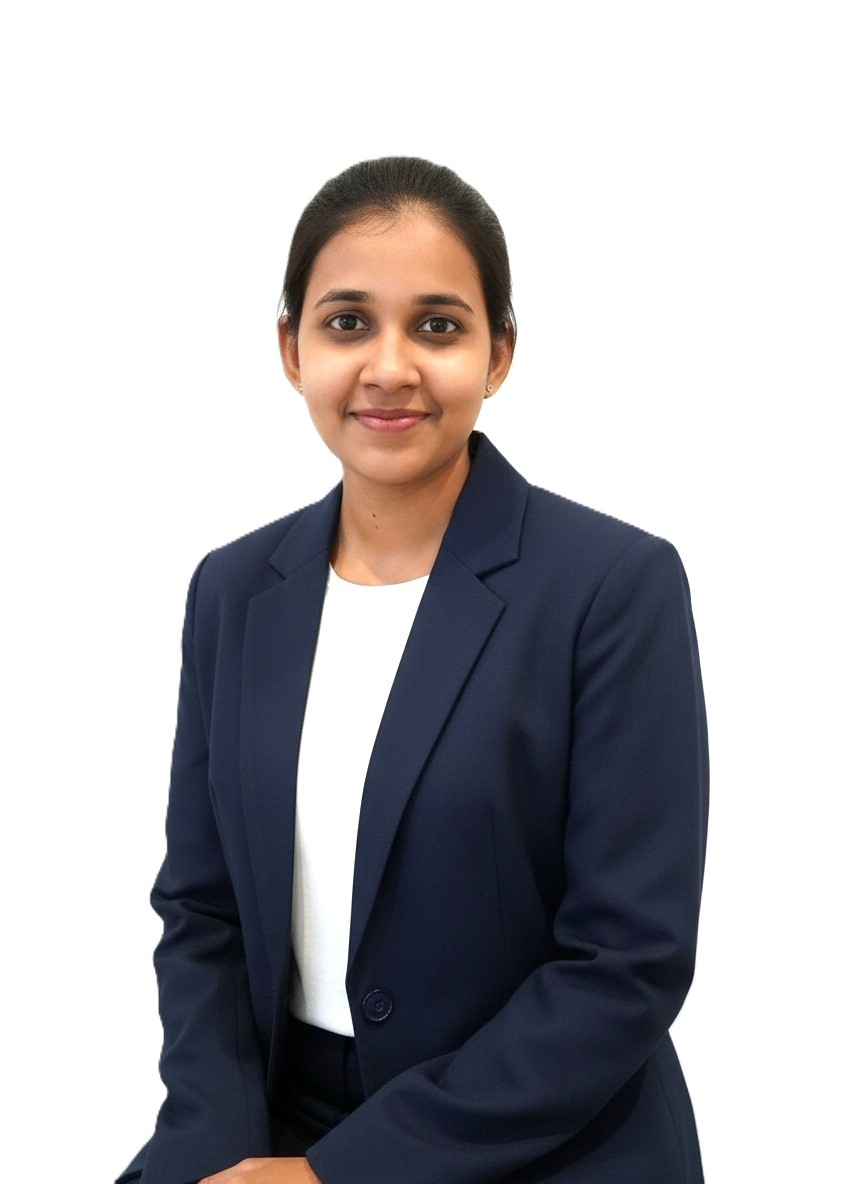
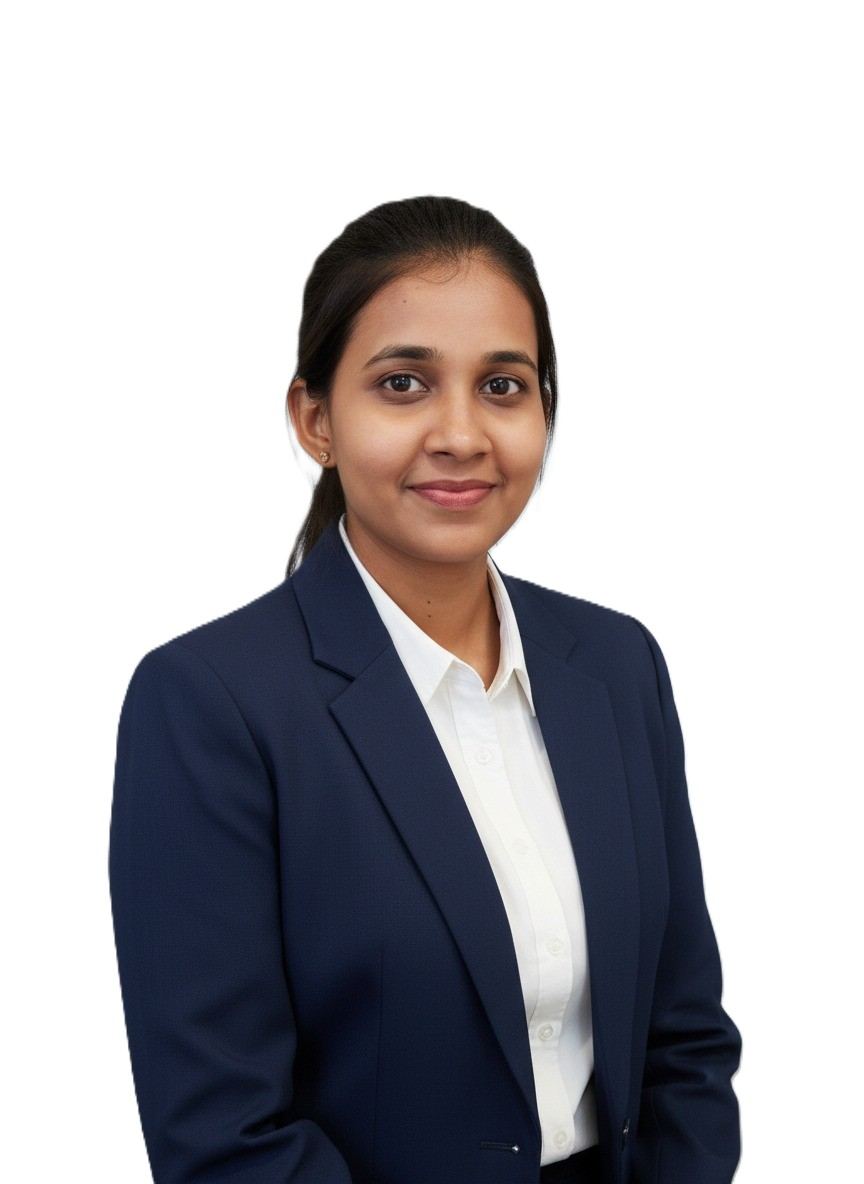
added profile picture and styling

Changed region(s): [[0.125, 0.125, 0.875, 1.0]]

diff --git a/style.css b/style.css
@@ -147,6 +147,53 @@ body {
     0 0 200px #0ef;
 }
 
+.home-img {
+  display: flex;
+  justify-content: center;
+  align-items: center;
+  opacity: 0;
+  animation: zoomIn 1s ease forwards, floatImage 4s ease-in-out infinite;
+  animation-delay: 2s, 3s;
+}
+
+.home-img img {
+  width: 350px;
+  height: 350px;
+  object-fit: cover;
+  border-radius: 50%;
+  border: 5px solid #0ef;
+  box-shadow: 0 0 25px #0ef, 0 0 50px #0ef, 0 0 75px #0ef;
+  transition: 0.5s ease;
+}
+
+.home-img img:hover {
+  box-shadow: 0 0 35px #0ef, 0 0 70px #0ef, 0 0 100px #0ef, 0 0 150px #0ef;
+  transform: scale(1.05);
+}
+
+@keyframes floatImage {
+  0% {
+    transform: translateY(0);
+  }
+  50% {
+    transform: translateY(-24px);
+  }
+  100% {
+    transform: translateY(0);
+  }
+}
+
+@keyframes zoomIn {
+  0% {
+    opacity: 0;
+    transform: scale(0);
+  }
+  100% {
+    opacity: 1;
+    transform: scale(1);
+  }
+}
+
 .about {
   display: grid;
   grid-template-columns: repeat(2, 1fr);
@@ -308,7 +355,6 @@ body {
   min-height: 100vh;
 }
 
-/* Skills Section Layout */
 .container1 > .sub-title {
   text-align: center;
   margin-bottom: 60px;
@@ -318,7 +364,6 @@ body {
   margin-top: 0;
 }
 
-/* Two Column Layout for Skills */
 .skills-container {
   display: grid;
   grid-template-columns: 1fr 1fr;
@@ -441,7 +486,6 @@ body {
   width: 70%;
 }
 
-/* Professional Skills - Radial Bars */
 .radial-bars-container {
   display: grid;
   grid-template-columns: repeat(2, 1fr);
@@ -566,7 +610,6 @@ body {
   }
 }
 
-/* Portfolio Section */
 .portfolio {
   background: linear-gradient(135deg, #0a1628 0%, #162238 50%, #1a2d45 100%);
   padding: 80px 0;
@@ -712,7 +755,6 @@ body {
   font-size: 16px;
 }
 
-/* Portfolio Responsive */
 @media (max-width: 768px) {
   .portfolio-content {
     grid-template-columns: 1fr;

diff --git a/index.html b/index.html
@@ -36,6 +36,9 @@
         </div>
         <a href="#" class="btn-box">More About Me</a>
       </div>
+      <div class="home-img">
+        <img src="123.jpg" alt="Profile Picture" />
+      </div>
       <span class="home-imgHover"></span>
     </section>
     <section class="about" id="about">
